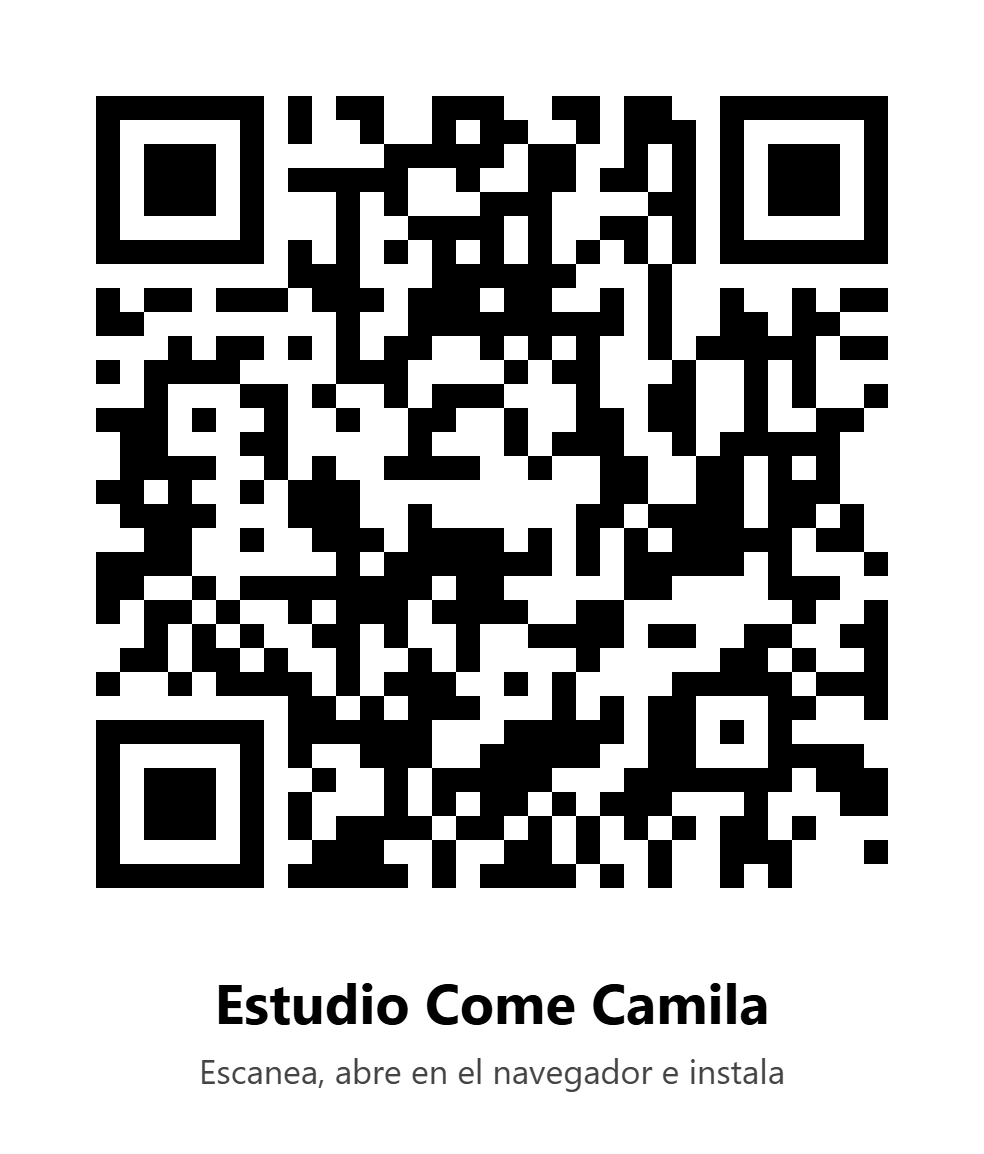
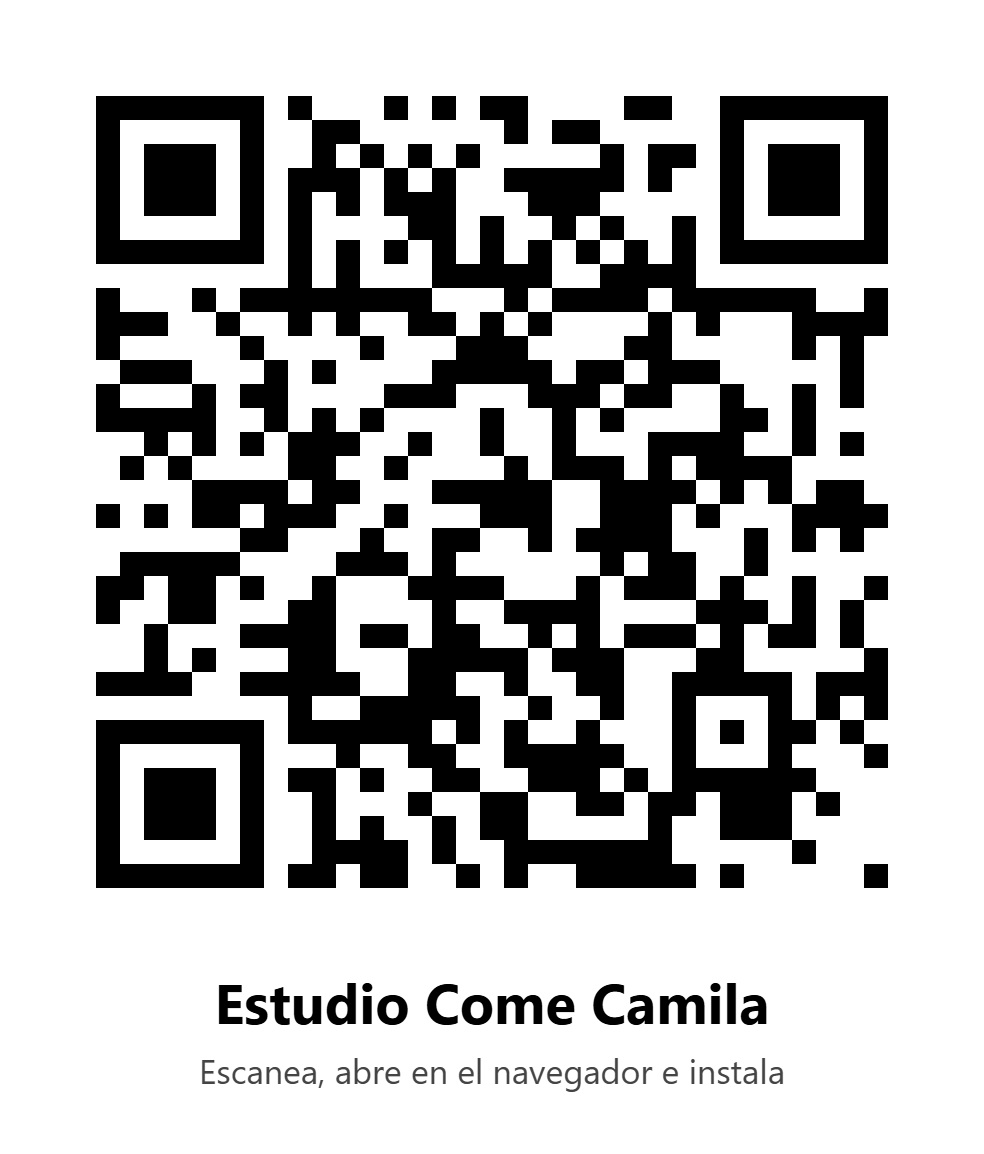
Apuntar el README y el QR al nuevo nombre del repositorio
El repositorio ahora se llama PLANTILLA-CAPACITACION, así que la app vive en kalleros.github.io/PLANTILLA-CAPACITACION/.

Changed region(s): [[0.0915, 0.0624, 0.9146, 0.7799]]

diff --git a/README.md b/README.md
@@ -2,7 +2,7 @@
 
 App para aprender el menú de Come Camila y pasar de runner a mesero.
 
-**App:** https://kalleros.github.io/ESTUDIO-COME-CAMILA/
+**App:** https://kalleros.github.io/PLANTILLA-CAPACITACION/
 (en iPhone: Safari → Compartir → Agregar a inicio; en Android: botón **Instalar**)
 
 ## Qué trae
